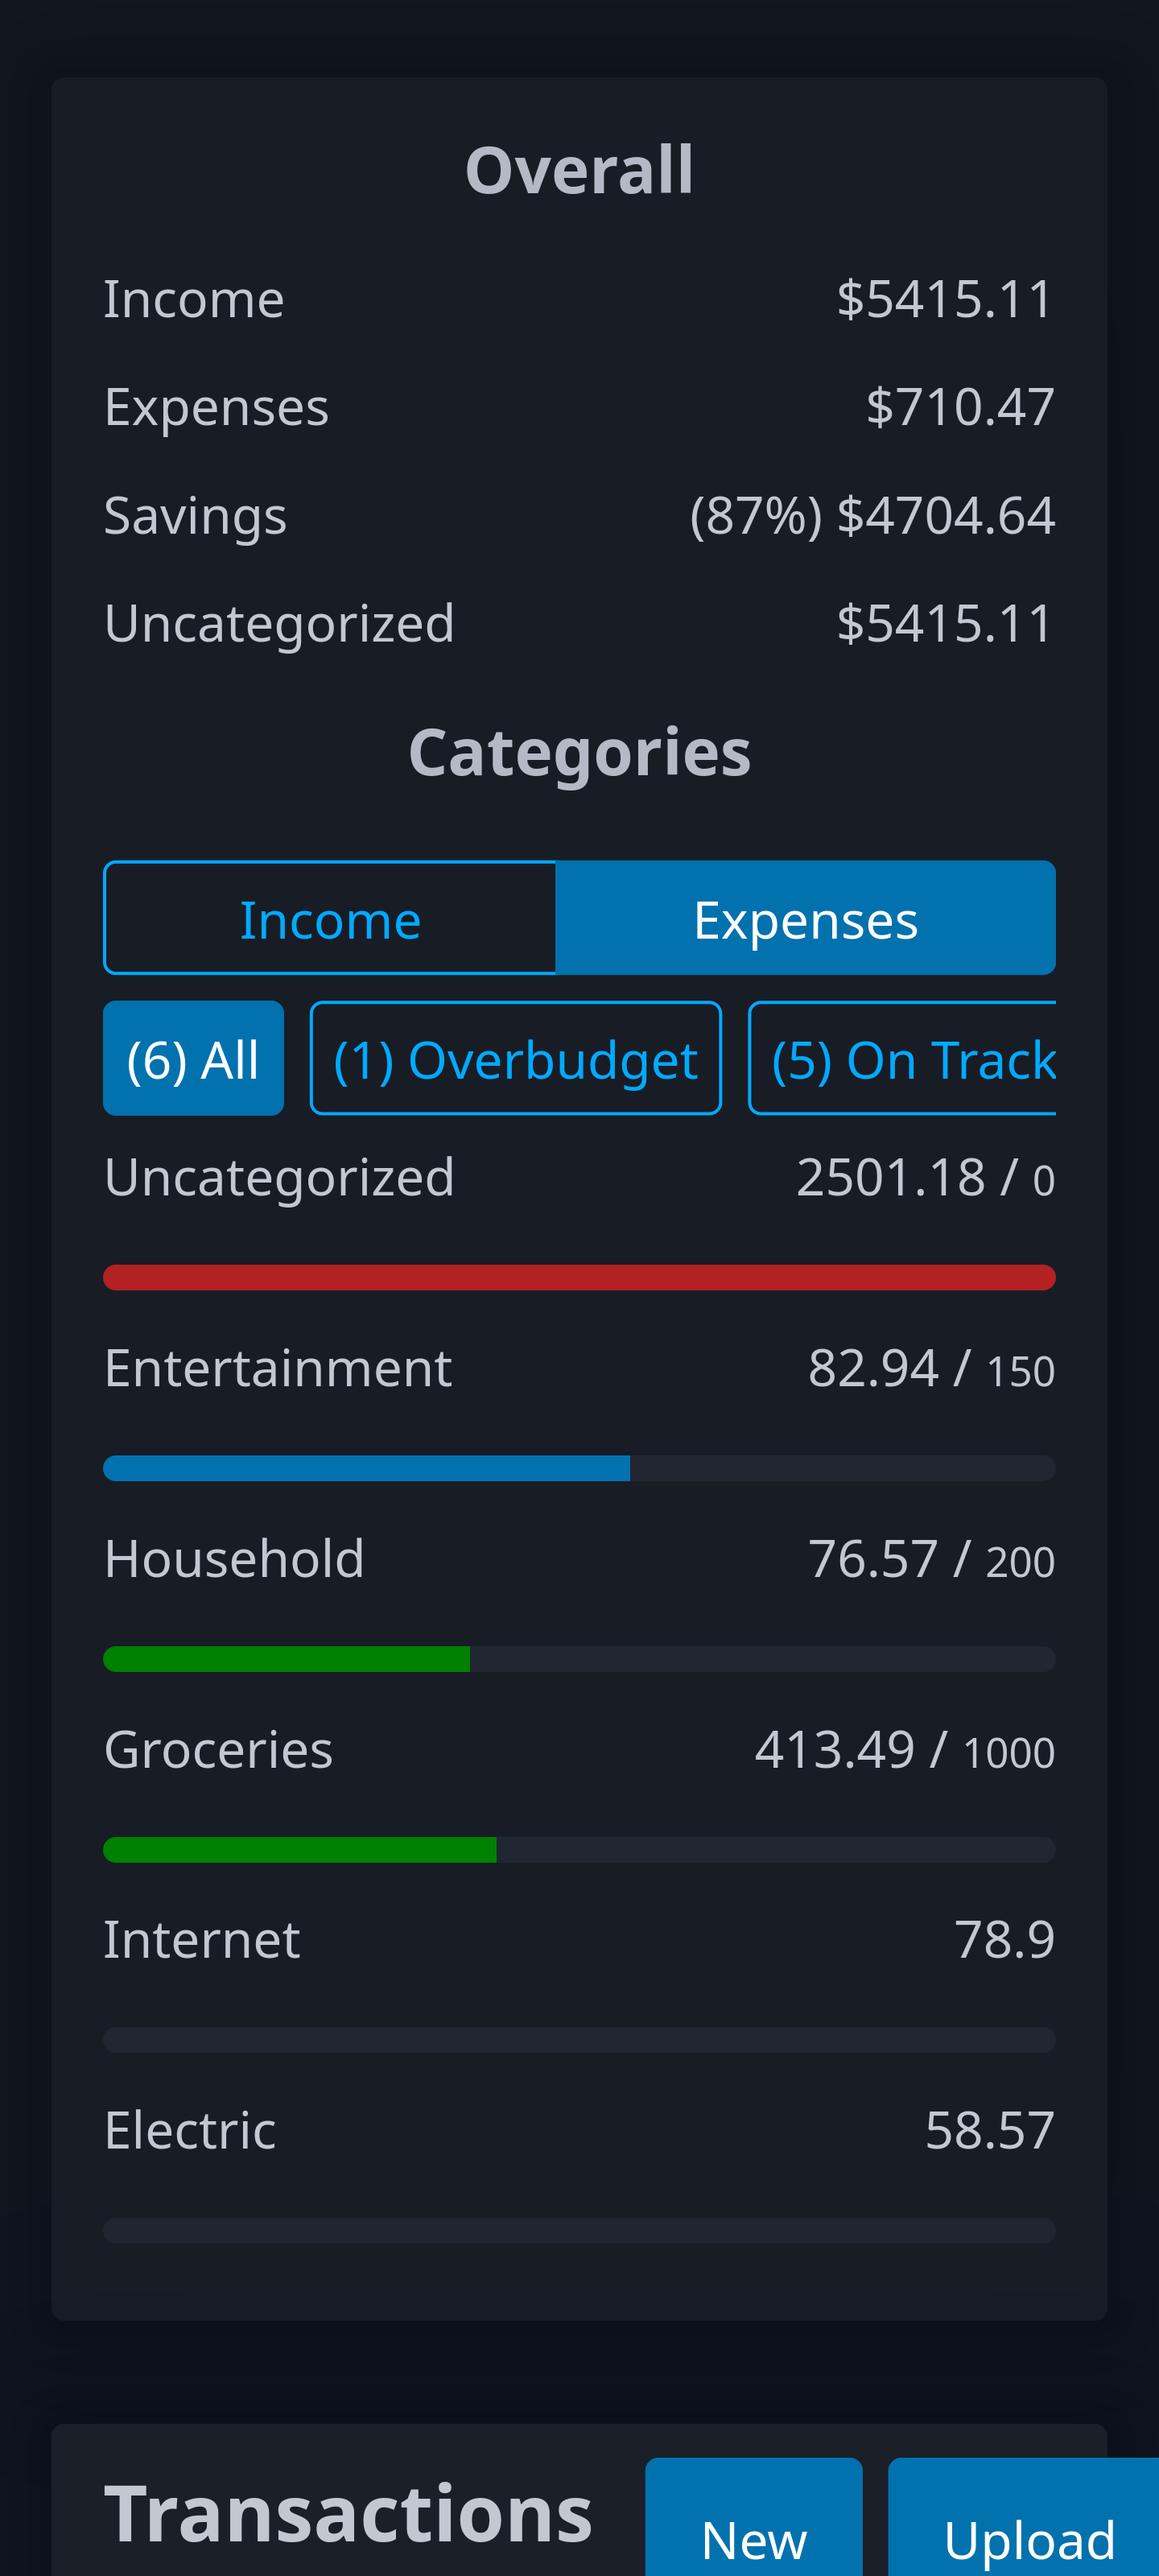
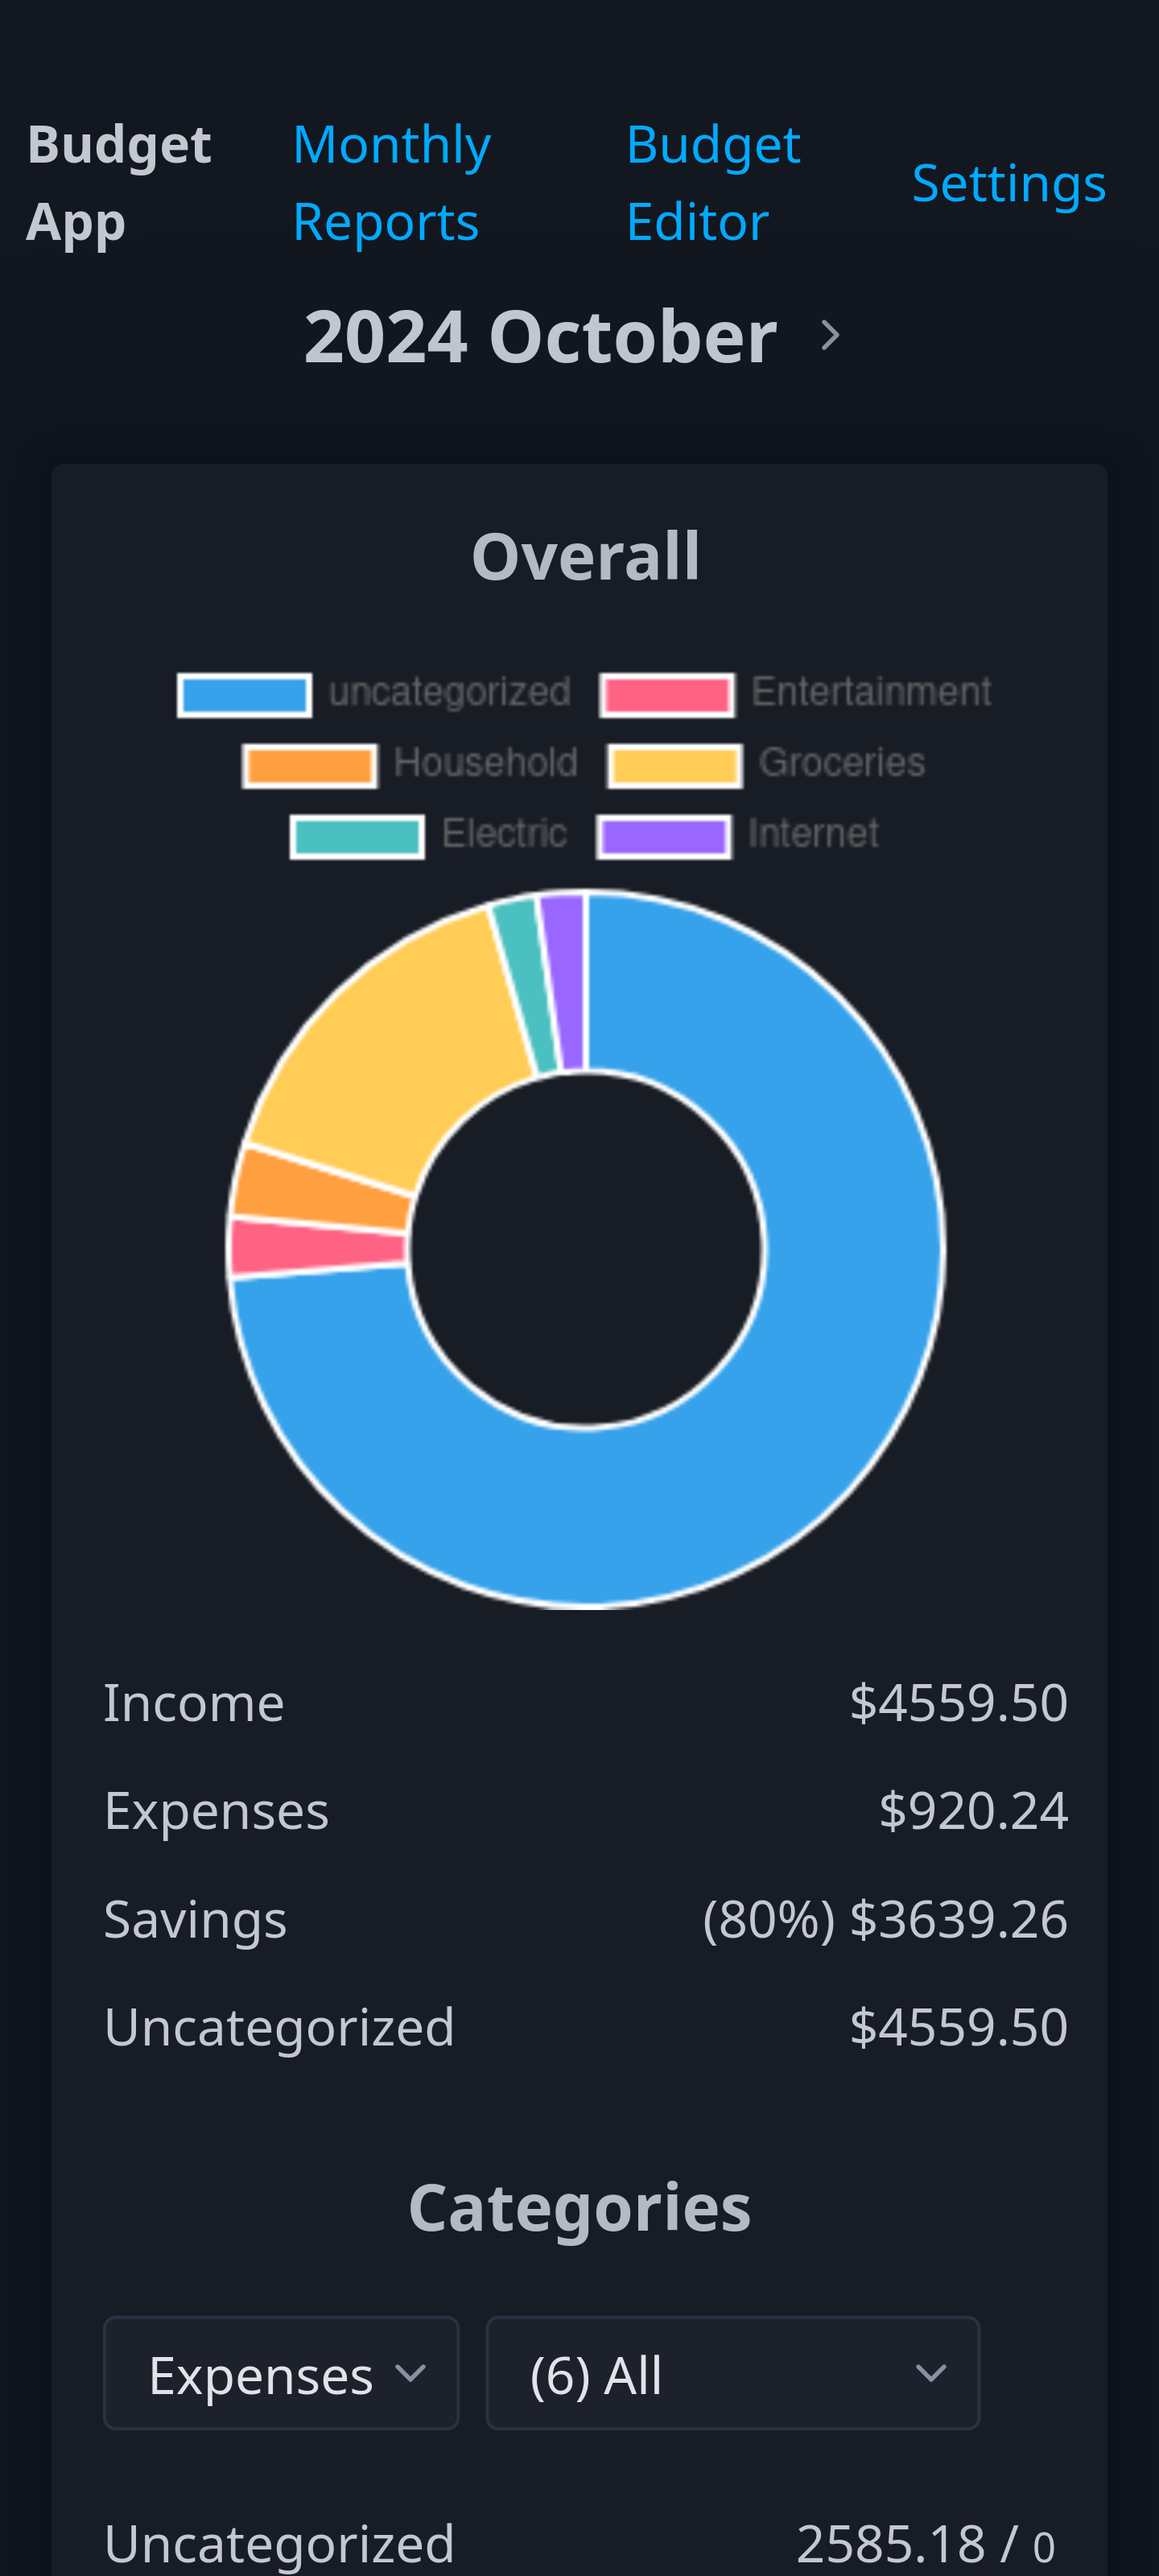
Add manual transaction entry functionality

diff --git a/public/index.html b/public/index.html
@@ -117,7 +117,6 @@
                 <div>
                   <button
                     data-target="transaction-modal"
-                    onclick="toggleModal(event)"
                     id="new-transaction-btn"
                   >
                     New
@@ -146,88 +145,97 @@
             </div>
           </article>
         </div>
-      </x-app-context>
-      <dialog id="transaction-modal">
-        <article>
-          <header>
-            <button
-              aria-label="Close"
-              rel="prev"
-              data-target="transaction-modal"
-              onclick="toggleModal(event)"
-            ></button>
-            <h3>New Transaction</h3>
-          </header>
-          <div class="form-container">
-            <form>
-              <fieldset>
-                <label>
-                  Description
-                  <input name="description" placeholder="Description" />
-                </label>
-                <div class="form-row">
+        <dialog id="transaction-modal">
+          <article>
+            <header>
+              <button
+                id="transaction-modal-close-btn"
+                aria-label="Close"
+                rel="prev"
+                data-target="transaction-modal"
+              ></button>
+              <h3>New Transaction</h3>
+            </header>
+            <div class="form-container">
+              <form>
+                <fieldset>
                   <label>
-                    Amount
+                    Description
                     <input
-                      type="number"
-                      step="any"
-                      name="amount"
-                      placeholder="0.0"
+                      name="description"
+                      placeholder="Description"
+                      minlength="1"
+                      required="true"
                     />
                   </label>
-                </div>
-                <div class="form-row">
+                  <div class="form-row">
+                    <label>
+                      Amount
+                      <input
+                        type="number"
+                        step="any"
+                        name="amount"
+                        placeholder="0.0"
+                      />
+                    </label>
+                  </div>
+                  <div class="form-row">
+                    <label>
+                      Date
+                      <input
+                        id="date-input"
+                        type="date"
+                        name="date"
+                        placeholder="Date"
+                      />
+                    </label>
+                    <button name="today">Today</button>
+                  </div>
                   <label>
-                    Date
-                    <input type="date" name="date" placeholder="Date" />
+                    Account
+                    <input
+                      type="text"
+                      name="account"
+                      placeholder="Account"
+                      list="accounts-list"
+                    />
+                    <datalist id="accounts-list">
+                      <option value="Some Credit Card"></option>
+                      <option value="Some Checking Account"></option>
+                    </datalist>
                   </label>
-                  <button>Today</button>
-                </div>
-                <label>
-                  Account
-                  <input
-                    type="text"
-                    name="account"
-                    placeholder="Account"
-                    list="accounts-list"
-                  />
-                  <datalist id="accounts-list">
-                    <option value="Some Credit Card"></option>
-                    <option value="Some Checking Account"></option>
-                  </datalist>
-                </label>
-                <label>
-                  Category
-                  <input
-                    type="text"
-                    name="amount"
-                    placeholder="Uncategorized"
-                    disabled
-                  />
-                </label>
-              </fieldset>
-            </form>
-          </div>
-          <footer>
-            <button
-              id="transaction-modal-cancel-btn"
-              role="button"
-              class="secondary"
-              data-target="transaction-modal"
-              onclick="toggleModal(event)"
-            >
-              Cancel</button
-            ><button
-              id="transaction-modal-create-btn"
-              autofocus
-              data-target="transaction-modal"
-              onclick="toggleModal(event)"
-            >
-              Create
-            </button>
-          </footer>
-        </article>
-      </dialog>
+                  <label>
+                    Category
+                    <input
+                      type="text"
+                      name="amount"
+                      placeholder="Uncategorized"
+                      disabled
+                    />
+                  </label>
+                </fieldset>
+              </form>
+            </div>
+            <footer>
+              <button
+                id="transaction-modal-cancel-btn"
+                role="button"
+                class="secondary"
+                data-target="transaction-modal"
+                onclick="toggleModal(event)"
+              >
+                Cancel</button
+              ><button
+                id="transaction-modal-create-btn"
+                autofocus
+                data-target="transaction-modal"
+              >
+                Create
+              </button>
+            </footer>
+          </article>
+        </dialog>
+      </x-app-context>
       <script src="./js/modal.js"></script>
       <script type="module" src="./js/index.js"></script>
     </main>

diff --git a/public/js/index.js b/public/js/index.js
@@ -1,9 +1,10 @@
 import { registerAppContext } from './components/app-context.js';
 import { generateTestData } from './test-data.js';
-import { MonthPicker } from './mounts/month-picker.js';
+import { MonthPicker, getCurrentYearMonth } from './mounts/month-picker.js';
 import { MonthTotalsPanel } from './mounts/month-totals.js';
 import { TransactionsPanel } from './mounts/month-transactions.js';
 import { MonthCategoriesPanel } from './mounts/month-categories.js';
+import { TransactionDialog } from './mounts/transaction-dialog.js';
 
 // Generate test data and save to local storage
 generateTestData();
@@ -17,8 +18,10 @@ const app = () => {
   MonthTotalsPanel(document.querySelector('.overall-section-totals-list'));
   MonthCategoriesPanel(document.querySelector('.breakdown-sections-container'));
   TransactionsPanel(document.querySelector('.transactions-section'));
+  TransactionDialog(document.querySelector('#transaction-modal'));
   // load data from storage and generate reports
   const appContext = document.querySelector('x-app-context');
+  appContext.selectedMonth = getCurrentYearMonth();
   appContext.loadFromLocalStorage();
   appContext.refreshReports();
   console.log('App loaded');

diff --git a/public/js/mounts/month-transactions.js b/public/js/mounts/month-transactions.js
@@ -7,20 +7,12 @@ export function TransactionsPanel(panelEl) {
   fileUploadBtn.addEventListener('click', () => {
     document.getElementById('file-upload-input').click();
   });
-  const transactionDialogId = 'transaction-modal';
   const newTransactionBtn = panelEl.querySelector('#new-transaction-btn');
-  newTransactionBtn.setAttribute('data-target', transactionDialogId);
+  // const modal = document.getElementById(newTransactionBtn.dataset.target);
+
   newTransactionBtn.addEventListener('click', (e) => {
     console.log('New clicked!');
-  });
-  const transactionDialogEl = document.getElementById(transactionDialogId);
-  const cancelEl = document.getElementById('transaction-modal-cancel-btn');
-  const createEl = document.getElementById('transaction-modal-create-btn');
-  cancelEl.addEventListener('click', (e) => {
-    console.log('Cancel clicked!');
-  });
-  createEl.addEventListener('click', (e) => {
-    console.log('Create clicked!');
+    appContext.openTransactionDialog();
   });
   function updateTable() {
     const tableEl = panelEl.querySelector('table');

diff --git a/public/js/mounts/month-picker.js b/public/js/mounts/month-picker.js
@@ -1,3 +1,8 @@
+export function getCurrentYearMonth() {
+  const now = new Date();
+  return `${now.getFullYear()}-${String(now.getMonth() + 1).padStart(2, '0')}`;
+}
+
 export function MonthPicker(monthPickerEl) {
   const monthNames = [
     'January',
@@ -33,10 +38,6 @@ export function MonthPicker(monthPickerEl) {
   }
   // monthPickerEl.querySelector('summary').textContent = 'Select a month';
 
-  function getCurrentYearMonth() {
-    const now = new Date();
-    return `${now.getFullYear()}-${String(now.getMonth() + 1).padStart(2, '0')}`;
-  }
   function yearMonthToText(yearMonth) {
     const [yr, mo] = yearMonth.split('-');
     return `${yr} ${monthNames[Number(mo) - 1]}`;

diff --git a/public/js/components/app-context.js b/public/js/components/app-context.js
@@ -51,6 +51,20 @@ class AppContext extends HTMLElement {
     );
   }
 
+  #transactionDialogData = null;
+  #transactionDialogOpen = false;
+  openTransactionDialog(data = null) {
+    this.#transactionDialogOpen = true;
+    this.#transactionDialogData = data;
+    this.dispatchEvent(new CustomEvent('openTransactionDialog'));
+  }
+  closeTransactionDialog(clear = true) {
+    this.#transactionDialogOpen = false;
+    if (clear) {
+      this.#transactionDialogData = null;
+    }
+    this.dispatchEvent(new CustomEvent('closeTransactionDialog'));
+  }
   categorizeTransactions() {
     return categorizeTransactions(this.#budget, this.#transactions);
   }

diff --git a/README.md b/README.md
@@ -11,7 +11,7 @@ Currently this project is an experiment to simplify the web stack, taking inspir
 - Plain-text budget format to reduce platform lock-in
 - Monthly and average spending breakdown
 - Budget goals
-- Chart view of spending breakdown (planned, below overall stats)
+- Chart view of spending breakdown
 - Batch import of transactions in CSV or JSON format (planned)
 - Transaction, budget, report export (planned)
 - PWA (Progressive Web App) support for offline usage (planned)
@@ -23,7 +23,7 @@ Currently this project is an experiment to simplify the web stack, taking inspir
 ![desktop-screenshot](docs/budget-app-desktop.png)
 
 ### Mobile
-<img src="docs/budget-app-mobile.png" width="400">
+<img src="docs/budget-app-mobile.png" width="200">
 
 ## Wireframe
 
